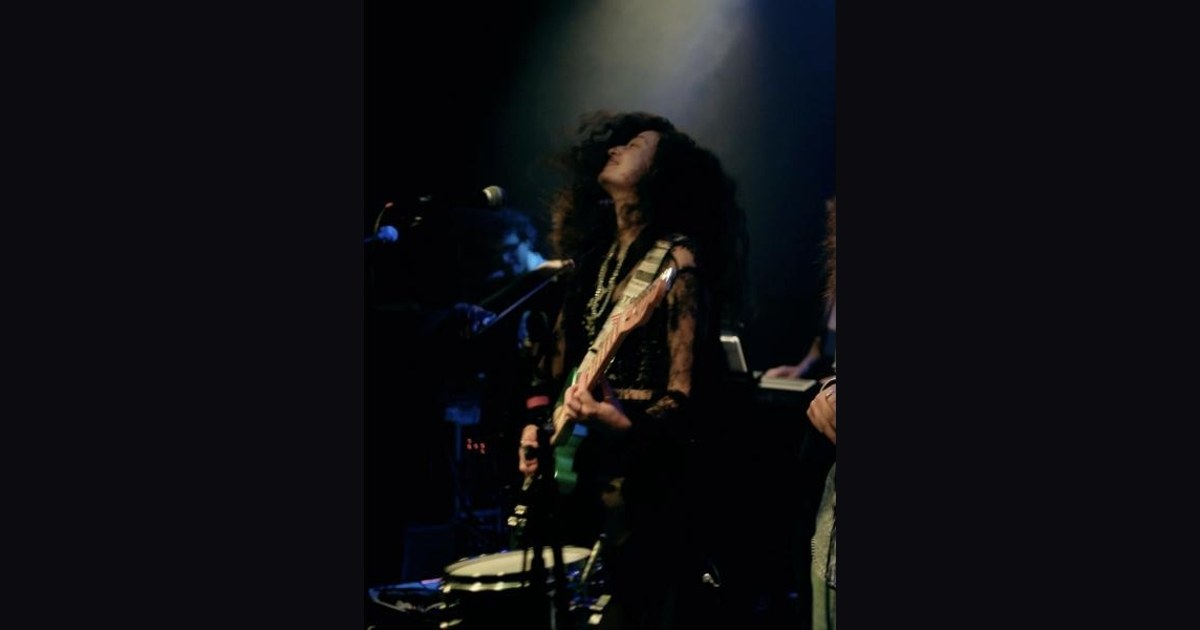
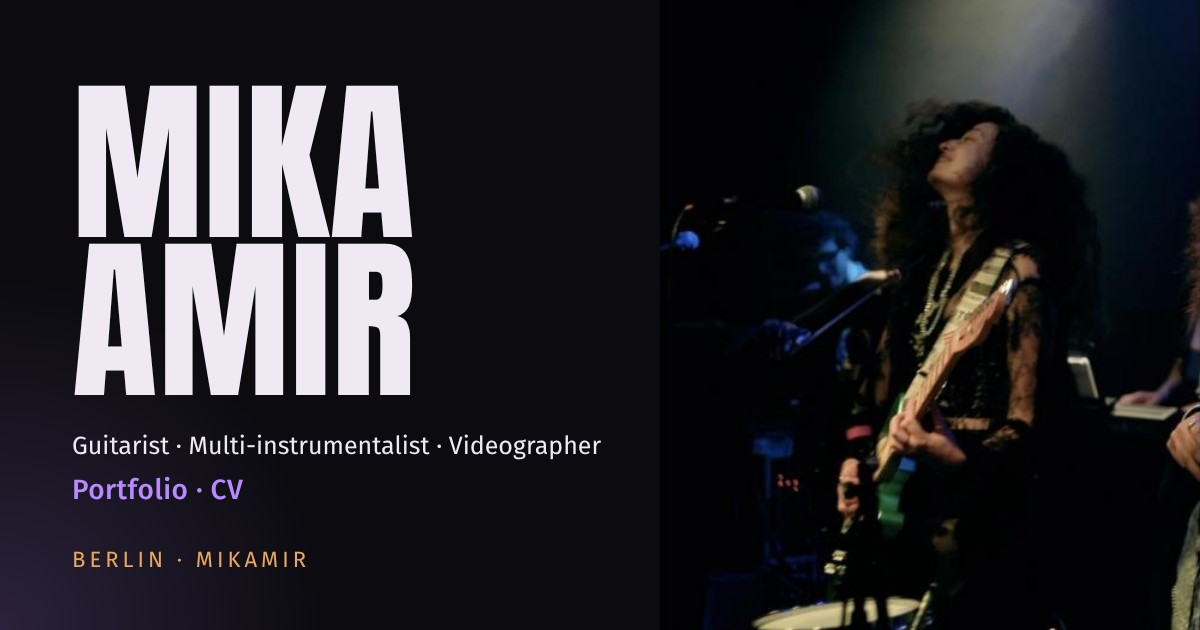
New link preview image and text
Claude-Session: https://claude.ai/code/session_01VSJuFM7zKZq9vPS6h98exP

diff --git a/index.html b/index.html
@@ -6,10 +6,10 @@
 <title>Mikamir – Portfolio & CV</title>
 <meta name="description" content="Mika Amir-Anzwieg (Mikamir) – Berlin-based guitarist, multi-instrumentalist, artist and videographer. Portfolio and CV.">
 <meta property="og:type" content="website">
-<meta property="og:title" content="Mikamir – Portfolio &amp; CV">
-<meta property="og:description" content="Mika Amir-Anzwieg · guitarist, multi-instrumentalist, artist, videographer · Berlin">
+<meta property="og:title" content="Mika Amir – Portfolio · CV">
+<meta property="og:description" content="Berlin-based guitarist, multi-instrumentalist and videographer. Live musician for Georgia Cavallo, Shaked Miller and PORT NOO; artist as Mikamir.">
 <meta property="og:url" content="https://mikamirportfolio.github.io/">
-<meta property="og:image" content="https://mikamirportfolio.github.io/og.jpg">
+<meta property="og:image" content="https://mikamirportfolio.github.io/og.jpg?v=2">
 <meta property="og:image:width" content="1200">
 <meta property="og:image:height" content="630">
 <meta name="twitter:card" content="summary_large_image">
